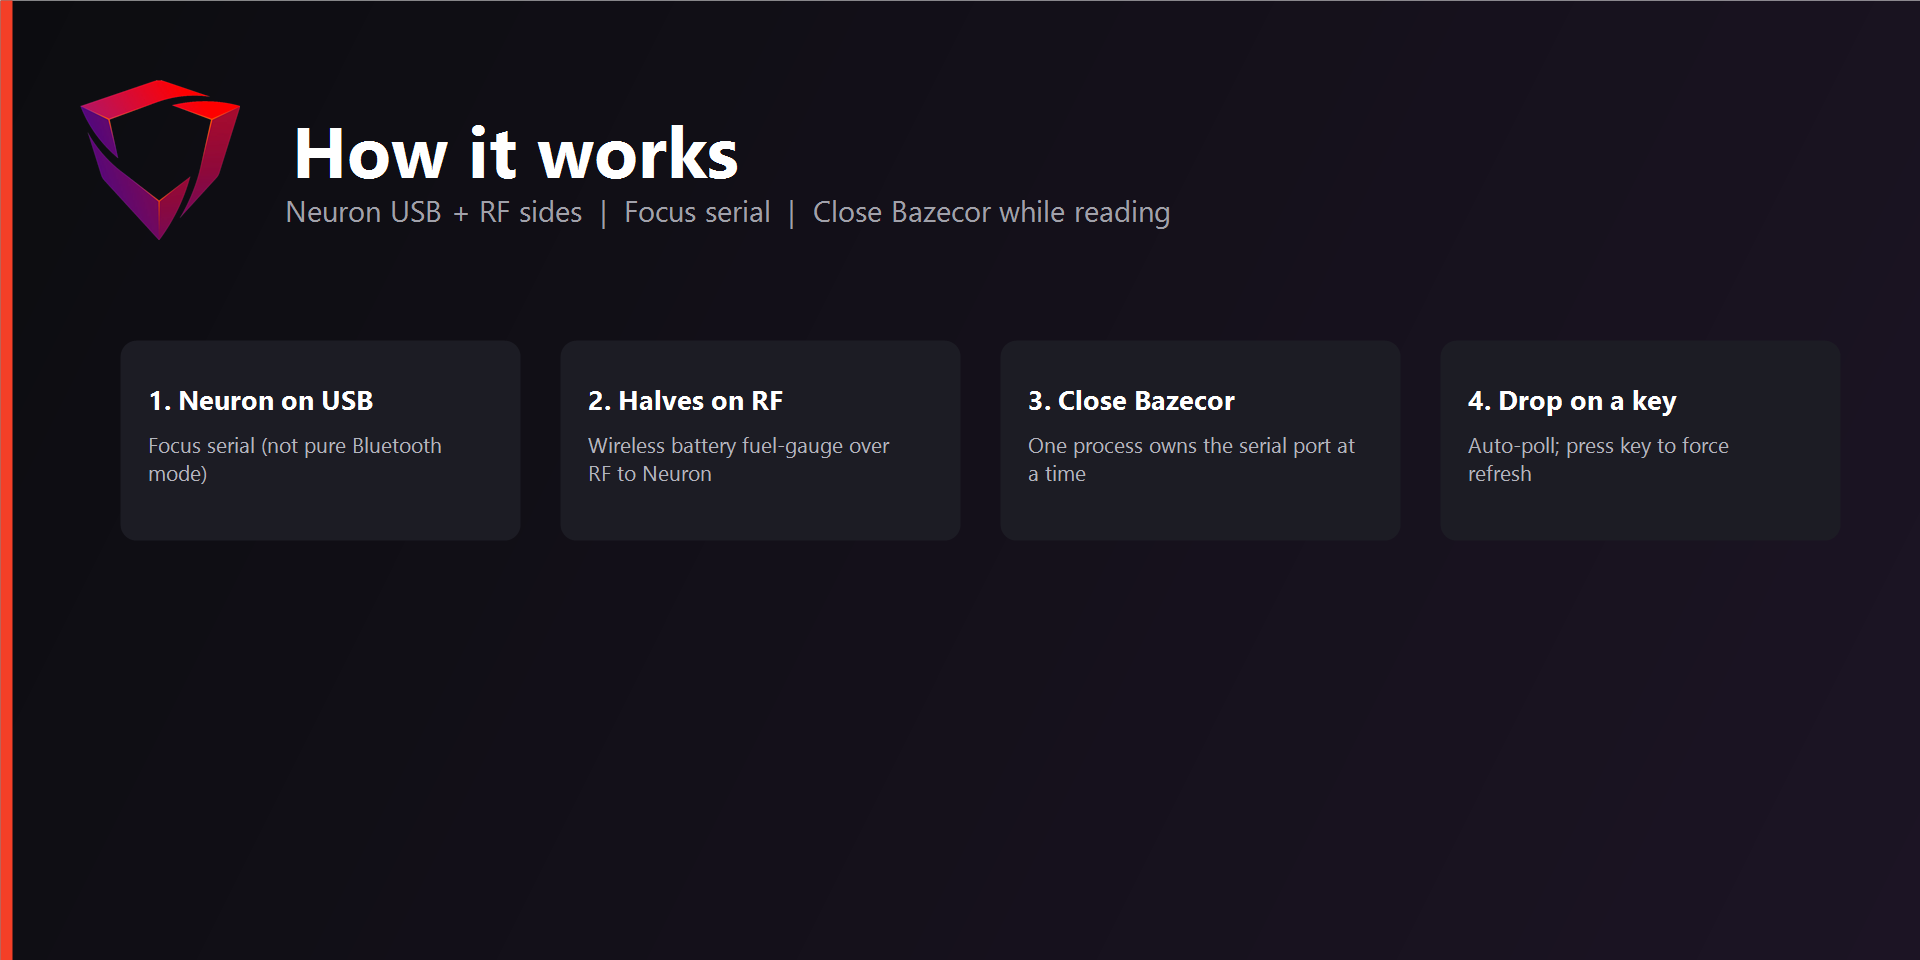
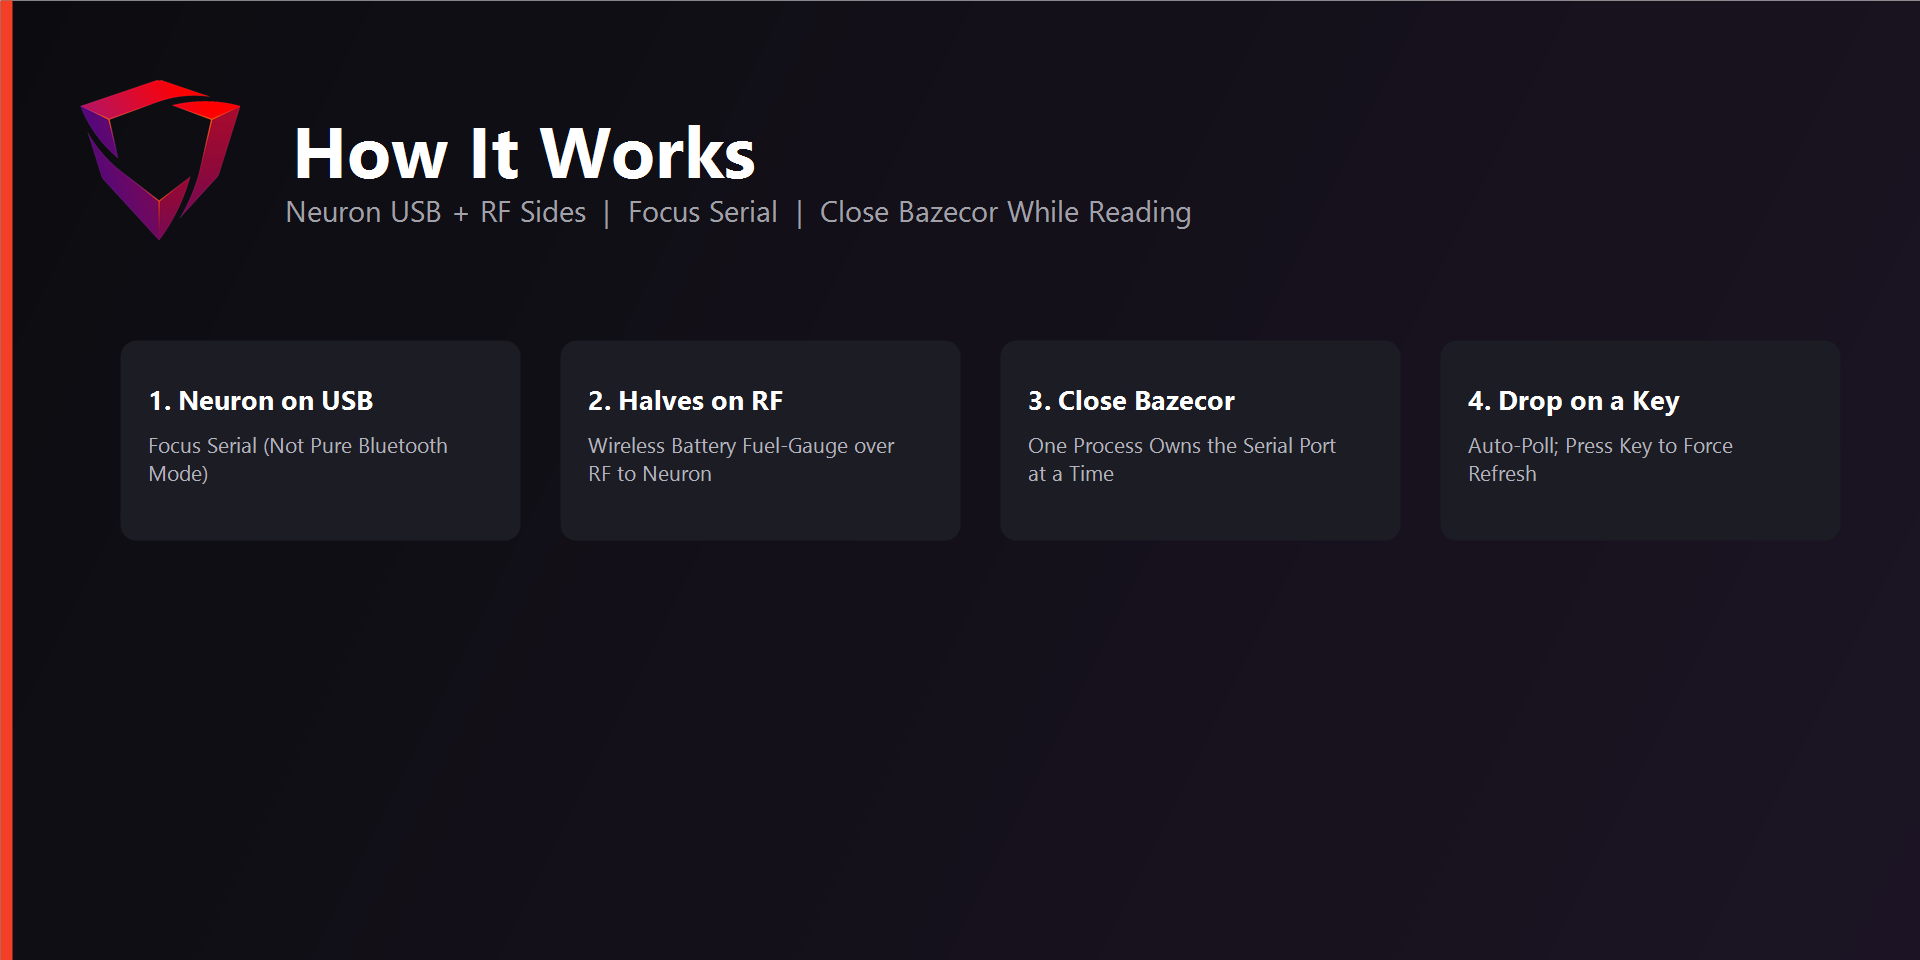
Marketplace: title case labels and official board product art.
Pull Defy / Raise 2 / Sonsei cutouts from dygma.com into product-photos, show them on gallery-03 cards, and apply title case across banner copy.

diff --git a/marketplace/LISTING.md b/marketplace/LISTING.md
@@ -70,12 +70,15 @@ Source and updates: https://github.com/crimsonvspurple/dygma-sd
 | `gallery-01-key-art.png` | 1920×960 PNG | Gallery 1 |
 | `gallery-02-setup.png` | 1920×960 PNG | Gallery 2 |
 | `gallery-03-boards.png` | 1920×960 PNG | Gallery 3 |
+| `product-photos/` | Defy / Raise 2 / Sonsei art | Source shots for gallery 3 (see `SOURCES.txt`) |
 
 Regenerate:
 
 ```powershell
 powershell -ExecutionPolicy Bypass -File marketplace/gen-assets.ps1
 ```
+
+Product photos are official marketing assets from [dygma.com](https://dygma.com/) (cutouts / menu art). Keep them only for Marketplace listing media; this plugin remains unofficial.
 
 ## Demo video (you record)
 
